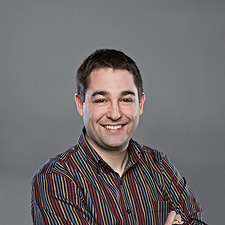
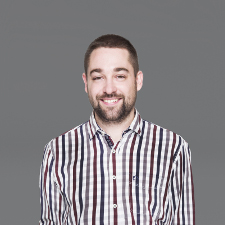
New photos in meet team section

diff --git a/__generators/team-config.php b/__generators/team-config.php
@@ -13,7 +13,6 @@ return array(
         'conference' => 1,
         'title' => 'CTO and co-founder',
         'image' => 'warski.jpg',
-        'imageColor' => 'warski-color.jpg',
         'bio' => "
         <p>Adam Warski has participated in many projects using Java and Scala technologies. He is a founder of several
           open-source projects, such as Hibernate Envers, ElasticMQ and Veripacks. Apart from writing closed- and
@@ -35,8 +34,7 @@ return array(
         'parent' => 1,
         'conference' => 0,
         'title' => 'Software Journeyman',
-        'image' => 'no-image.jpg',
-        'imageColor' => 'no-image.jpg',
+        'image' => 'andrzej_ludwikowski.jpg',
         'bio' => "
         <p>Andrzej strongly believes in DDD and CQRS approaches for implementation of core domain.
            He considers TDD, SOLID and GRASP as the best catalysts for good quality software development.
@@ -59,8 +57,7 @@ return array(
         'parent' => 1,
         'conference' => 0,
         'title' => 'Software Developer',
-        'image' => 'no-image.jpg',
-        'imageColor' => 'no-image.jpg',
+        'image' => 'daniel_kos.jpg',
         'bio' => "
         <p>Experienced C++/Java developer drifting towards functional languages. Attached to concepts and ideas not to particular technologies.</p> 
         <p>Interested in computer graphics and games as well as in rich internet/enterprise applications.</p> 
@@ -80,7 +77,6 @@ return array(
         'conference' => 0,
         'title' => 'Senior Software Engineer',
         'image' => 'kunicki.jpg',
-        'imageColor' => 'kunicki-color.jpg',
         'bio' => "
         <p>A software engineer who cares about the quality of what he does. Specializes in Java/JEE related
           technologies, but believes that software craftsmanship is technology agnostic – thus he never limits his
@@ -103,8 +99,7 @@ return array(
         'parent' => 1,
         'conference' => 0,
         'title' => 'Passionate Software Developer',
-        'image' => 'no-image.jpg',
-        'imageColor' => 'no-image.jpg',
+        'image' => 'jan_kowalski.jpg',
         'bio' => "
         <p>Jan graduated mathematics from University of Warsaw and derives his passion from successfully completed non-obvious tasks. Formerly he helped to feed hadoop in Allegro - a popular e-commerce platform in Poland. 
 
@@ -121,7 +116,6 @@ return array(
         'conference' => 1,
         'title' => 'Co-founder and COO',
         'image' => 'zborowski.jpg',
-        'imageColor' => 'zborowski-color.jpg',
         'bio' => "
         <p>With SoftwareMill from the very beginning. The first normal person among the geeks, he connects the IT world
           with the non-IT surroundings.
@@ -143,7 +137,6 @@ return array(
         'conference' => 0,
         'title' => 'Integration Architect',
         'image' => 'kijanowski.jpg',
-        'imageColor' => 'kijanowski-color.jpg',
         'bio' => "
         <p>Devoted to the SML way of getting things done.<br/> Started his career at JBoss, where he was part of a
           superior QE team and worked on products like the Enterprise Application Platform (JBoss AS), the SOA Platform
@@ -164,8 +157,7 @@ return array(
         'parent' => 0,
         'conference' => 1,
         'title' => 'PR&Marketing Manager',
-        'image' => 'no-image.jpg',
-        'imageColor' => 'no-image.jpg',
+        'image' => 'kasia_l-b.jpg',
         'bio' => "
         <p>A digital native with strong experience in developing and executing social media strategies for brands. In SoftwareMill Kasia takes care of business communications.</p>
         <p>She's gained her experience primarily in interactive agencies, where she led projects for financial, fmcg, household and HR sectors.</p>
@@ -185,7 +177,6 @@ return array(
         'conference' => 0,
         'title' => 'QA engineer',
         'image' => 'pukianiec.jpg',
-        'imageColor' => 'pukianiec-color.jpg',
         'bio' => "
         <p>QA engineer with many years experience in large and small projects. At SoftwareMill she writes Selenium
           tests.
@@ -206,7 +197,6 @@ return array(
         'conference' => 0,
         'title' => 'Passionate Software Developer',
         'image' => 'ciesielski.jpg',
-        'imageColor' => 'ciesielski-color.jpg',
         'bio' => "
         <p>Passionate about programming since his early schooldays. Previously co-developed worldwide systems for mobile
           banking and the healthcare industry. A true enthusiast of the JVM ecosystem and open source. After work
@@ -228,7 +218,6 @@ return array(
         'conference' => 1,
         'title' => 'Senior Software Engineer',
         'image' => 'grajek.jpg',
-        'imageColor' => 'grajek-color.jpg',
         'bio' => "
         <p>Passionate programmer, constantly looking for better tools and methodologies.<br/> Before joining the
           SoftwareMill team Krzysztof worked as a freelance developer for clients from Poland and New Zealand.<br/> He
@@ -251,7 +240,6 @@ return array(
         'conference' => 1,
         'title' => 'Creative Software Engineer',
         'image' => 'lenart.jpg',
-        'imageColor' => 'lenart-color.jpg',
         'bio' => "
         <p>Has turned passion for programming from a hobby into profession.<br/> Łukasz believes that a good programmer
           should always try new languages and technologies. He can develop in PHP, C#, Borland Delphi, etc. – finding
@@ -274,7 +262,6 @@ return array(
         'conference' => 1,
         'title' => 'Software Wizard',
         'image' => 'zuchowski.jpg',
-        'imageColor' => 'zuchowski-color.jpg',
         'bio' => "
         <p>His job and passion is finding solution for business problems. Lukasz solves those with logic, Java language
           and a handful of frameworks. He graduated from the Technical University of Lodz. During his career he’s been
@@ -296,7 +283,6 @@ return array(
         'conference' => 0,
         'title' => 'Senior Software Engineer',
         'image' => 'hnydka.jpg',
-        'imageColor' => 'hnydka-color.jpg',
         'bio' => "
         <p>Graduated from Warsaw University of Technology. After few years of programming with Java and JEE started
           using JRuby, JavaScript libs, now getting to know Scala.
@@ -317,7 +303,6 @@ return array(
         'conference' => 0,
         'title' => 'Passionate Software Developer',
         'image' => 'stozek.jpg',
-        'imageColor' => 'stozek-color.jpg',
         'bio' => "
         <p>Software developer devoted to doing things \"the right way\". Fan of coding standards and conventions.</p>
         <p>Before joining SoftwareMill she worked for a small Glasgow-based chauffeur-driven transportation company and a worldwide corporation producing recruitment software.
@@ -332,7 +317,6 @@ return array(
         'conference' => 1,
         'title' => 'Administration & Event Coordinator',
         'image' => 'wojciechowska.jpg',
-        'imageColor' => 'wojciechowska-color.jpg',
         'bio' => "
         <p>Polish philologist, landscape architect, tour guide and karateka in one: Gosia has experience in each of
           these fields. At SoftwareMill she is responsible for correspondence, helps to organize various events,
@@ -353,8 +337,7 @@ return array(
         'parent' => 0,
         'conference' => 0,
         'title' => 'Guardian of the Type Safety',
-        'image' => 'no-image.jpg',
-        'imageColor' => 'no-image.jpg',
+        'image' => 'marcin_kubala.jpg',
         'bio' => "
         <p>Marcin enjoys pair programming with compiler, using strictly-typed languages like Scala and Java.
         Currently fascinated by functional programming principles.
@@ -376,8 +359,7 @@ return array(
         'parent' => 0,
         'conference' => 0,
         'title' => 'Software Wizard',
-        'image' => 'no-image.jpg',
-        'imageColor' => 'no-image.jpg',
+        'image' => 'michal_chmielarz.jpg',
         'bio' => "
         <p>Graduated from University of Adam Mickiewicz, Poznań. Java developer and passionate backend programmer. Familiar with enterprise integration system problems.
         Currently starting his adventure in Scala world. Privately husband, amateur of millet groats cooked in a million ways and novice gardener.</p> 
@@ -397,7 +379,6 @@ return array(
         'conference' => 0,
         'title' => 'Software Wizard',
         'image' => 'matloka.jpg',
-        'imageColor' => 'matloka-color.jpg',
         'bio' => "
         <p>Michał is always eager to get to know new emerging technologies. He specializes in Java SE and EE
           development. His involvement in multiple open source projects led to receiving JBoss Community Recognition
@@ -417,8 +398,7 @@ return array(
         'parent' => 0,
         'conference' => 0,
         'title' => 'Passionate Software Developer',
-        'image' => 'no-image.jpg',
-        'imageColor' => 'no-image.jpg',
+        'image' => 'michal_mital.jpg',
         'bio' => "
         <p>Michał likes clean and simple code and believes in Agile.
          Before joining SML, Michał worked for Lufthansa Systems.
@@ -441,7 +421,6 @@ return array(
         'conference' => 0,
         'title' => 'Software Wizard',
         'image' => 'ostruszka.jpg',
-        'imageColor' => 'ostruszka-color.jpg',
         'bio' => "
         <p>\"Both-ends\" developer, in love with building web applications
         (from monoliths to modular Single Page Apps today) since beginning of his developer career.
@@ -464,8 +443,7 @@ return array(
         'parent' => 0,
         'conference' => 0,
         'title' => 'Senior Software Engineer',
-        'image' => 'no-image.jpg',
-        'imageColor' => 'no-image.jpg',
+        'image' => 'mikolaj_koziarkiewicz.jpg',
         'bio' => "
         <p>Mikołaj is an alumni of the Vienna University of Technology's Computational Intelligence programme. As such, he feels at home to different language paradigms, and therefore enjoys the current technology boom in the JVM ecosystem.
 
@@ -487,8 +465,7 @@ return array(
         'parent' => 0,
         'conference' => 0,
         'title' => 'Passionate Software Engineer',
-        'image' => 'no-image.jpg',
-        'imageColor' => 'no-image.jpg',
+        'image' => 'oskar_straczkowski.jpg',
         'bio' => "
         <p>Prior SoftwareMill, Oskar worked in Lufthansa Systems where he developed solutions for airlines.
         He's also a glider fan and promised to take all of the team for a flight someday.</p>
@@ -507,7 +484,6 @@ return array(
         'conference' => 1,
         'title' => 'Senior Software Engineer',
         'image' => 'stawicki.jpg',
-        'imageColor' => 'stawicki-color.jpg',
         'bio' => "
         <p>A programmer by profession and passion.His adventure with programming started with a Timex 2048 computer and
           Basic in childhood. Professionally he started programming in C++, later switching to Java. He has been
@@ -529,7 +505,6 @@ return array(
         'conference' => 0,
         'title' => 'Senior Software Engineer',
         'image' => 'dyraga.jpg',
-        'imageColor' => 'dyraga-color.jpg',
         'bio' => "
         <p>Piotr graduated computer science at Jagiellonian University. Prior joining SoftwareMill worked on projects
             ranging from bank transaction processing engine to HTTP proxy server. He specializes in high-throughput,
@@ -550,7 +525,6 @@ return array(
         'conference' => 1,
         'title' => 'Passionate Software Developer',
         'image' => 'buda.jpg',
-        'imageColor' => 'buda-color.jpg',
         'bio' => "
         <p>Piotr started his professional career in 2007 at CGM Poland. He doesn’t avoid any programming languages.
           Java, Scala and Android enthusiast. Eager for knowledge both programming and technical, spends most of free
@@ -567,8 +541,7 @@ return array(
          'username' => 'sylwia',
          'conference' => 0,
          'title' => 'Office Assistant',
-         'image' => 'no-image.jpg',
-         'imageColor' => 'no-image.jpg',
+         'image' => 'sylwia_gorska.jpg',
          'bio' => "
          <p>Sylwia supports the administration part of SoftwareMill, she is responsible for correspondence, helps to organize various events and deals with suppliers.
          </p>
@@ -588,7 +561,6 @@ return array(
         'conference' => 0,
         'title' => 'Senior Software Engineer',
         'image' => 'dziurko.jpg',
-        'imageColor' => 'dziurko-color.jpg',
         'bio' => "
         <p>Tomasz likes clean code and methods with names that are over ten-characters long. He has been involved in
           projects related to e-trade and navigation systems. Big fan and active promoter of Apache Wicket framework.
@@ -609,7 +581,6 @@ return array(
         'conference' => 1,
         'title' => 'CEO & Co-founder',
         'image' => 'szymanski.jpg',
-        'imageColor' => 'szymanski-color.jpg',
         'bio' => "
         <p>
             Co-founder of SoftwareMill, but still active developer, without which he would go mad.
@@ -639,8 +610,7 @@ return array(
         'parent' => 1,
         'conference' => 0,
         'title' => 'Senior Software Engineer',
-        'image' => 'no-image.jpg',
-        'imageColor' => 'no-image.jpg',
+        'image' => 'wojtek_ziebicki.jpg',
         'bio' => "
         <p>Experienced Java and Groovy programmer. He doesn’t avoid any programming languages.
         Professionally he started programming in PHP, later switching to Java. He has been developing

diff --git a/__generators/meet-team.rb b/__generators/meet-team.rb
@@ -12,9 +12,7 @@ json_config = `php php2json.php`
 people = JSON.parse json_config
 
 people.each_with_index { |person, idx |
-  img = Image.read("../img/members/"+person['imageColor'])[0]
-  pixel = img.get_pixels(0,0,1,1)[0]
-  if pixel.blue > pixel.green
+  if idx % 2 == 0
       person['color'] = 'blue'
   else
       person['color'] = 'green'
